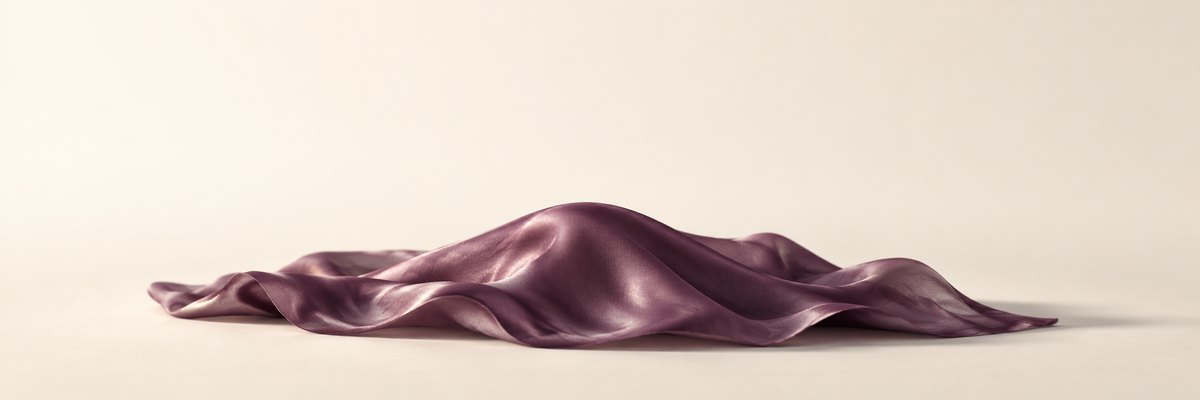
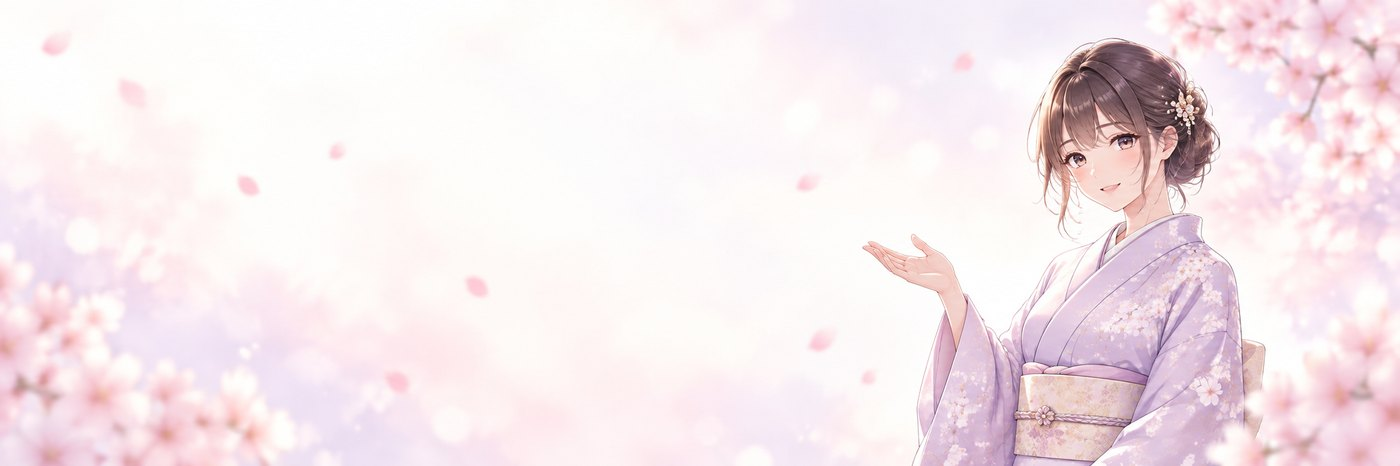
Add files via upload

diff --git a/ys-today.html b/ys-today.html
@@ -640,6 +640,167 @@ a.tv-use{display:inline-flex;align-items:center;text-decoration:none}
 .nrn.l{background-image:url('ys-noren-l.png')}
 .nrn.r{background-image:url('ys-noren-r.png')}
 </style>
+
+<style>
+/* ══ ให้เข้าชุดกับริชเมนูใหม่: สว่าง สดใส มีชีวิต ══════════════ */
+:root{
+  --washi:#FDFBFA;
+  --sumi:#3A2650;          /* หมึกม่วง อ่านชัดบนพื้นสว่าง */
+  --sumi-2:#8A7A9C;
+  --aka:#6B3F9E; --aka-d:#4E2B77;
+  --sak:#F5C7DA;           /* ชมพูซากุระ */
+  --gold:#D8B978;
+  --line-c:#EFE7F0;
+  --lilac:#F7F0FA;
+}
+/* พื้น: ชมพูมุมบนซ้าย · ม่วงมุมล่างขวา · ขาวตรงกลางให้ตัวหนังสืออยู่ */
+body{
+  background:
+    radial-gradient(120% 78% at 6% -6%, rgba(245,199,218,.55) 0%, rgba(245,199,218,0) 58%),
+    radial-gradient(110% 76% at 104% 108%, rgba(190,166,224,.46) 0%, rgba(190,166,224,0) 60%),
+    var(--washi);
+  background-attachment:fixed;
+}
+.app{background:transparent}
+
+/* หัวเว็บ */
+.stage::after{background:linear-gradient(180deg,rgba(253,251,250,0) 52%,var(--washi) 100%)}
+
+/* วันที่ */
+.today{border-bottom:1px solid var(--sumi)}
+.today .cnt{color:var(--aka)}
+
+/* ── รายชื่อ: การ์ดขาวลอย แทนเส้นคั่น ── */
+.person{
+  background:#FFFFFF;border:0;border-radius:16px;margin-bottom:12px;
+  padding:20px 20px;box-shadow:0 3px 14px rgba(120,80,150,.10);
+}
+.who .nm{color:var(--sumi)}
+.who .fr{color:#6E6280}
+.who .nx{color:var(--aka)}
+.person.full{opacity:1;background:#FBF8FC;box-shadow:none}
+.person.full .nm,.person.full .fr{opacity:.5}
+.skel{border:0;border-radius:16px;margin-bottom:12px;background:#FFF;
+  background-image:linear-gradient(90deg,transparent,rgba(190,150,220,.16),transparent);background-size:220% 100%}
+
+/* ป้าย tier / จุดเด่น */
+.who .nm .tag{background:linear-gradient(135deg,var(--aka),#9B5FD0);color:#FFF;
+  padding:2px 10px;border-radius:999px;font-size:12.5px;letter-spacing:.06em}
+.who .nm .tag.hl{background:var(--sak);color:#6B3F6E;border:0;border-radius:999px;
+  padding:2px 10px;font-weight:600}
+
+/* กลุ่ม TOP */
+.topdiv{color:var(--aka)}
+.topdiv::before,.topdiv::after{background:linear-gradient(90deg,transparent,var(--sak),transparent);height:2px}
+
+/* กล่องกรองเวลา */
+.atbox{background:#FFF;border:0;border-radius:18px;padding:22px;
+  box-shadow:0 3px 14px rgba(120,80,150,.10)}
+.at-c{background:var(--lilac);border:0;color:var(--sumi);border-radius:999px;font-weight:500}
+.at-c:hover,.at-c:focus-visible{background:linear-gradient(135deg,var(--aka),#9B5FD0);color:#FFF}
+.at-c-all{background:transparent;border:1px solid var(--line-c);color:var(--sumi-2)}
+.at-c-all.on{background:transparent;border-color:var(--aka);color:var(--aka)}
+.at-row input{background:var(--lilac);border:0;border-radius:999px}
+.at-go{background:linear-gradient(135deg,var(--aka),#9B5FD0);color:#FFF;border-radius:999px}
+.at-map{border:0;background:var(--sak);color:#5E2F62;border-radius:999px;font-weight:600}
+.at-map:hover,.at-map:focus-visible{background:#EFB2CB;color:#4E2551}
+.tv-use{background:linear-gradient(135deg,var(--aka),#9B5FD0);border-radius:999px}
+
+/* ปุ่มสอบถามในแถว */
+.ask{background:var(--lilac);color:var(--aka);border:0;border-radius:999px;font-weight:600}
+.ask:hover,.ask:focus-visible{background:linear-gradient(135deg,var(--aka),#9B5FD0);color:#FFF}
+
+/* กล่องคำอธิบาย + ทักไลน์ */
+.notebox{border-left:3px solid var(--sak)}
+.nb-row b{color:var(--aka)}
+.lb-item{background:#FFF;border:0;border-radius:16px;box-shadow:0 3px 14px rgba(120,80,150,.10)}
+.lb-item:hover,.lb-item:focus-visible{background:#FFF;box-shadow:0 6px 20px rgba(120,80,150,.18)}
+.lb-go{color:var(--aka)}
+.state .clock{background:var(--lilac);color:var(--aka)}
+
+/* ปุ่มไลน์ล่างจอ */
+.fab{
+  background:linear-gradient(135deg,#6B3F9E,#A85FC8);
+  box-shadow:0 10px 28px rgba(120,60,160,.34);border-radius:999px;
+}
+.fab:hover,.fab:focus-visible{background:linear-gradient(135deg,#5C3489,#9B54BC);transform:translateX(-50%)}
+
+/* ท้ายหน้า */
+.foot{border-top:1px solid var(--line-c)}
+.maplink{color:var(--aka);border-bottom-color:rgba(107,63,158,.3)}
+.divider{background:linear-gradient(90deg,transparent,var(--sak),transparent);height:2px;opacity:1;max-width:96px}
+</style>
+
+<style>
+/* ══ ปุ่มมีชีวิต: กดแล้วยุบ + คลื่นกระเพื่อม + ไลน์หายใจ ══════ */
+.at-c,.at-c-all,.at-go,.at-map,.tv-use,.ask,.lb-item,.lg,.fab,.again,.maplink,.rp{
+  position:relative;overflow:hidden;
+  transition:transform .14s cubic-bezier(.2,.9,.3,1.4), box-shadow .18s ease, background-color .18s ease;
+}
+.at-c:active,.at-c-all:active,.at-go:active,.at-map:active,.tv-use:active,.ask:active,.lg:active,.again:active{transform:scale(.93)}
+.lb-item:active{transform:scale(.975)}
+.fab:active{transform:translateX(-50%) scale(.95)}
+
+/* คลื่นกระเพื่อมตอนแตะ */
+.rp-wave{
+  position:absolute;border-radius:50%;pointer-events:none;
+  background:radial-gradient(circle, rgba(255,255,255,.75) 0%, rgba(255,255,255,.28) 40%, rgba(255,255,255,0) 70%);
+  transform:translate(-50%,-50%) scale(0);animation:rp .55s ease-out forwards;
+}
+.at-c .rp-wave,.ask .rp-wave,.lg .rp-wave,.at-c-all .rp-wave,.again .rp-wave{
+  background:radial-gradient(circle, rgba(107,63,158,.28) 0%, rgba(107,63,158,.10) 40%, rgba(107,63,158,0) 70%);
+}
+@keyframes rp{to{transform:translate(-50%,-50%) scale(1);opacity:0}}
+
+/* ชิปที่เลือก — เด้งนิดนึงตอนเปลี่ยนสถานะ */
+.at-c-all.on,.lg[aria-pressed="true"]{animation:pop .28s cubic-bezier(.2,.9,.3,1.4)}
+@keyframes pop{0%{transform:scale(.92)}60%{transform:scale(1.04)}100%{transform:scale(1)}}
+
+/* ปุ่มไลน์หายใจช้าๆ ให้รู้ว่ากดได้ */
+.fab{animation:breathe 3.2s ease-in-out infinite}
+@keyframes breathe{
+  0%,100%{box-shadow:0 10px 28px rgba(120,60,160,.34)}
+  50%{box-shadow:0 14px 36px rgba(120,60,160,.52)}
+}
+
+/* การ์ดรายชื่อ — ค่อยๆ โผล่ทีละใบตอนโหลด */
+.person{animation:rise .5s cubic-bezier(.16,1,.3,1) both}
+.person:nth-child(1){animation-delay:.02s}.person:nth-child(2){animation-delay:.06s}
+.person:nth-child(3){animation-delay:.10s}.person:nth-child(4){animation-delay:.14s}
+.person:nth-child(5){animation-delay:.18s}.person:nth-child(6){animation-delay:.22s}
+.person:nth-child(n+7){animation-delay:.26s}
+@keyframes rise{from{opacity:0;transform:translateY(10px)}to{opacity:1;transform:none}}
+
+@media (prefers-reduced-motion:reduce){
+  .rp-wave,.fab,.person,.at-c-all.on,.lg[aria-pressed="true"]{animation:none}
+  .at-c,.ask,.lg,.fab,.lb-item{transition:none}
+}
+</style>
+
+<style>
+/* ══ หัวเว็บ: สาวกิโมโนทักทาย + คำต้อนรับฝั่งซ้าย ══════════════ */
+.stage{
+  height:206px;
+  background:var(--washi) url('ys-hero.jpg') right 38% / cover no-repeat !important;
+}
+.stage::after{display:block;background:linear-gradient(180deg,rgba(253,251,250,0) 62%,var(--washi) 100%)}
+.stage::before{
+  display:block;content:'ยินดีต้อนรับค่ะ';
+  position:absolute;left:24px;top:54px;z-index:2;
+  font-family:'Noto Sans Thai',sans-serif;font-size:22px;font-weight:500;color:var(--sumi);
+  letter-spacing:.02em;text-shadow:0 1px 0 rgba(255,255,255,.9),0 0 18px rgba(255,255,255,.9);
+  background:none;width:auto;height:auto;
+}
+.brand{padding-top:var(--s2)}
+
+/* หน้าจอว่าง: สาวนั่งพัก */
+.state::before{width:min(250px,70%);background-image:url('ys-empty.jpg');border-radius:14px}
+
+@media(max-width:360px){
+  .stage{height:186px;background-position:right 42% !important}
+  .stage::before{font-size:19px;left:18px;top:46px}
+}
+</style>
 </head>
 <body>
 
@@ -1303,6 +1464,21 @@ $('#fab').href=CFG.line;
 applyLang(); applyLang(); petals(); load(); trackVisit();
 setInterval(load, 5*60*1000);
 setInterval(()=>{ if(closedNow()) render(); }, 30*1000);
+</script>
+
+<script>
+(function(){
+  var SEL='.at-c,.at-c-all,.at-go,.at-map,.tv-use,.ask,.lb-item,.lg,.fab,.again,.maplink';
+  if(matchMedia('(prefers-reduced-motion:reduce)').matches) return;
+  document.addEventListener('pointerdown',function(e){
+    var el=e.target.closest(SEL); if(!el) return;
+    var r=el.getBoundingClientRect(), size=Math.max(r.width,r.height)*1.6;
+    var w=document.createElement('span'); w.className='rp-wave';
+    w.style.width=w.style.height=size+'px';
+    w.style.left=(e.clientX-r.left)+'px'; w.style.top=(e.clientY-r.top)+'px';
+    el.appendChild(w); setTimeout(function(){ w.remove(); },600);
+  },{passive:true});
+})();
 </script>
 </body>
 </html>
